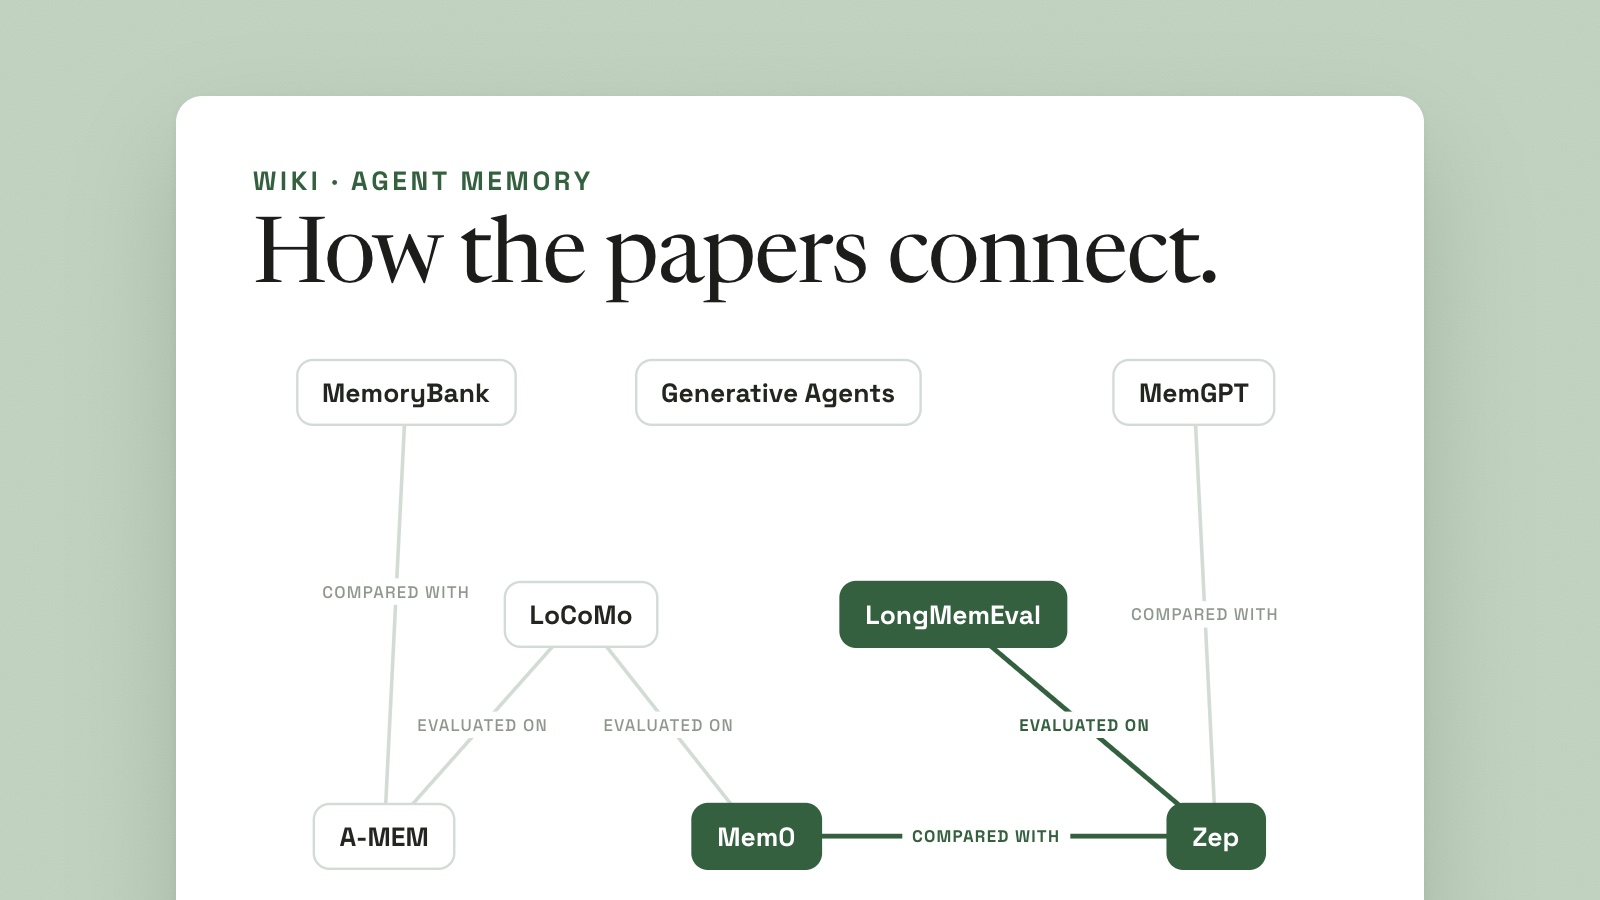
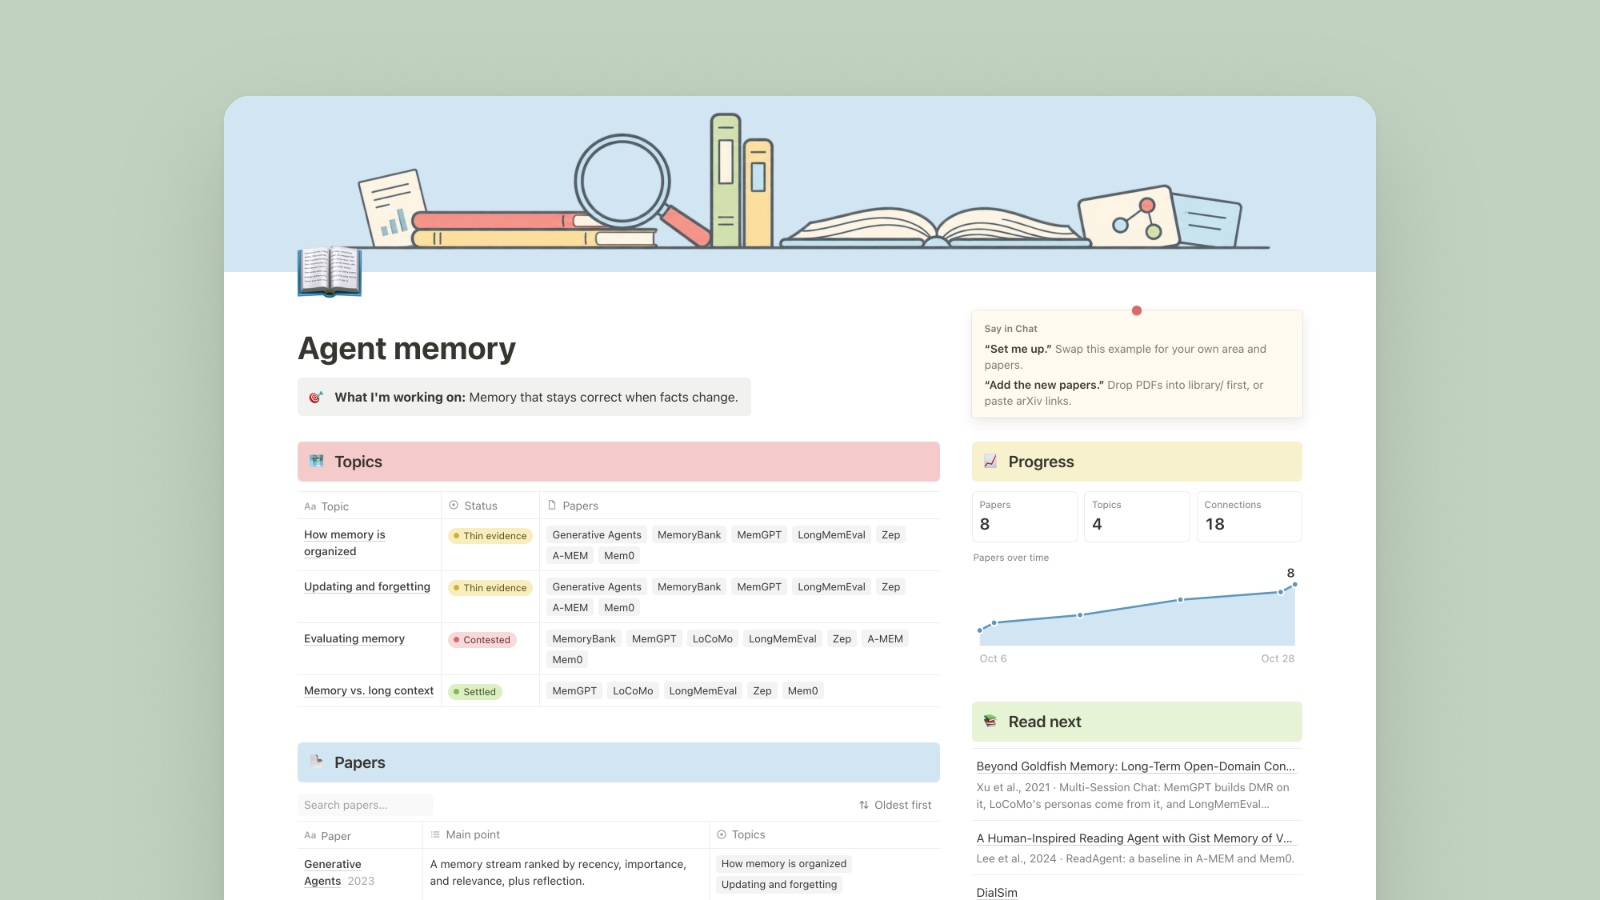
Feature LLM Wiki for Papers first with its dashboard as the cover
The template now has a dashboard, so its green cover is a real screenshot
of it, like Workout Tracker's. LLM Wiki for Papers moves to the front, with
Workout Tracker second. The covers README records each dashboard's banner
color, so the next one can pick a different one.

diff --git a/covers/llm-wiki-for-papers.html b/covers/llm-wiki-for-papers.html
@@ -4,72 +4,13 @@
 <meta charset="utf-8">
 <link rel="stylesheet" href="cover.css">
 <style>
-  .thing { width: 1040px; padding: 56px 64px 60px; }
-  .label { font-family: "Space Grotesk", sans-serif; font-weight: 700; font-size: 22px; letter-spacing: 3px; text-transform: uppercase; color: var(--deep); }
-  h1 { font-family: "Newsreader", serif; font-weight: 400; font-size: 76px; letter-spacing: -1.5px; line-height: 1.05; margin-top: 14px; }
-  .map { position: relative; height: 420px; margin-top: 44px; }
-  .map svg { position: absolute; inset: 0; width: 100%; height: 100%; overflow: visible; }
-  .map line { stroke: color-mix(in srgb, var(--deep) 22%, #fff); stroke-width: 3; }
-  .map line.on { stroke: var(--deep); stroke-width: 4; }
-  .node { position: absolute; transform: translate(-50%, -50%); padding: 12px 20px; border-radius: 14px; background: #fff; white-space: nowrap;
-    border: 2px solid color-mix(in srgb, var(--deep) 22%, #fff);
-    font-family: "Space Grotesk", sans-serif; font-weight: 700; font-size: 22px; color: #22261f; }
-  .node.on { background: var(--deep); border-color: var(--deep); color: #fff; }
-  .edge { position: absolute; transform: translate(-50%, -50%); padding: 2px 8px; background: #fff; white-space: nowrap;
-    font-family: "Space Grotesk", sans-serif; font-weight: 500; font-size: 14px; letter-spacing: 1px; text-transform: uppercase; color: #8d978c; }
-  .edge.on { color: var(--deep); font-weight: 700; }
+  /* The thing is the wiki's dashboard itself: a real screenshot at 1440 × 1080, taken at 2x. */
+  .thing { width: 960px; min-height: 0; overflow: hidden; }
+  .thing img { display: block; width: 100%; }
 </style>
 </head>
 <body class="green">
   <div class="grain"></div>
-  <div class="thing">
-    <div class="label">Wiki · Agent memory</div>
-    <h1>How the papers connect.</h1>
-    <div class="map" id="map"><svg id="lines"></svg></div>
-  </div>
-<script>
-  // Older papers on top; x and y are percentages of the map.
-  const nodes = {
-    mb:   { name: "MemoryBank", x: 14, y: 6 },
-    ga:   { name: "Generative Agents", x: 48, y: 6 },
-    mg:   { name: "MemGPT", x: 86, y: 6 },
-    lc:   { name: "LoCoMo", x: 30, y: 50 },
-    lme:  { name: "LongMemEval", x: 64, y: 50 },
-    am:   { name: "A-MEM", x: 12, y: 94 },
-    m0:   { name: "Mem0", x: 46, y: 94 },
-    zep:  { name: "Zep", x: 88, y: 94 },
-  };
-  // [from, to, type, highlighted, label position along the edge (0-1)]
-  const edges = [
-    ["am", "lc", "evaluated on", false, 0.5],
-    ["m0", "lc", "evaluated on", false, 0.5],
-    ["zep", "lme", "evaluated on", true, 0.5],
-    ["zep", "mg", "compared with", false, 0.5],
-    ["m0", "zep", "compared with", true, 0.5],
-    ["am", "mb", "compared with", false, 0.55],
-  ];
-  const map = document.getElementById("map"), svg = document.getElementById("lines");
-  const W = map.clientWidth, H = map.clientHeight;
-  const pos = id => [nodes[id].x / 100 * W, nodes[id].y / 100 * H];
-  for (const [a, b, type, on, at] of edges) {
-    const [x1, y1] = pos(a), [x2, y2] = pos(b);
-    const l = document.createElementNS("http://www.w3.org/2000/svg", "line");
-    Object.entries({ x1, y1, x2, y2 }).forEach(([k, v]) => l.setAttribute(k, v));
-    if (on) l.classList.add("on");
-    svg.appendChild(l);
-    const t = document.createElement("div");
-    t.className = "edge" + (on ? " on" : ""); t.textContent = type;
-    t.style.left = x1 + (x2 - x1) * at + "px"; t.style.top = y1 + (y2 - y1) * at + "px";
-    map.appendChild(t);
-  }
-  const lit = new Set(edges.filter(e => e[3]).flatMap(e => [e[0], e[1]]));
-  for (const [id, n] of Object.entries(nodes)) {
-    const d = document.createElement("div");
-    d.className = "node" + (lit.has(id) ? " on" : "");
-    d.textContent = n.name;
-    d.style.left = n.x + "%"; d.style.top = n.y + "%";
-    map.appendChild(d);
-  }
-</script>
+  <div class="thing"><img src="llm-wiki-for-papers.png" alt=""></div>
 </body>
 </html>

diff --git a/covers/README.md b/covers/README.md
@@ -3,7 +3,7 @@
 Every cover shares one 16:9 layout: a tone with paper grain and one thing the project makes, in that thing's own form, lifted off the tone. The forms differ in shape (a resume page, a post with a picture, a dark post on X, a digest drawn as 337 dots with 5 picked), so four covers side by side tell apart at card size. Only one line on each is large enough to read there; the rest is texture. The cover carries no project name (the app prints it beside the cover), no logo, and no chat bubbles. Use real content from the project.
 
 * `cover.css`: the shared tones (`green`, `blue`, `clay`, `violet`), grain, and the lifted `.thing`. The tones share one lightness, with hues far enough apart to tell cards apart at a glance.
-* `<id>.html`: one file per project. Set the tone with the class on `<body>`, and draw the thing in `.thing` with its own styles. When the project's thing is an HTML page, use a real screenshot of it instead, saved next to the cover as `<id>.png` (light mode, 2x, without the browser-only "Preview mode" notice).
+* `<id>.html`: one file per project. Set the tone with the class on `<body>`, and draw the thing in `.thing` with its own styles. When the project's thing is an HTML page, use a real screenshot of it instead, saved next to the cover as `<id>.png` (light mode, 2x, without the browser-only "Preview mode" notice). Every page shares the same colors (coral, yellow, green) and gets its own banner color, which sits at the top of the screenshot: different from other projects' banners and from its own tone. The Banner column records them.
 * `fonts/`: Newsreader and Space Grotesk, the same as stashbase.ai.
 
 Render at 1600 × 900 with headless Chrome, then save it as `wikis/<id>/screenshots/cover.jpg`:
@@ -13,13 +13,13 @@ Render at 1600 × 900 with headless Chrome, then save it as `wikis/<id>/screensh
 sips -s format jpeg -s formatOptions 90 cover.png --out wikis/<id>/screenshots/cover.jpg
 ```
 
-| Project | Tone and thing |
-| --- | --- |
-| resume-builder | green, resume page |
-| linkedin-ghostwriter | blue, LinkedIn post |
-| x-content-starter | clay, post on X |
-| paper-tracker-for-industry | violet, weekly digest |
-| llm-wiki-for-papers | green, map of papers and how they connect |
-| poc-deck-builder | blue, results slide with each success criterion against its target |
-| software-architect | clay, architecture doc with its earlier versions stacked behind |
-| workout-tracker | violet, screenshot of the tracker page with the first week done |
+| Project | Tone and thing | Banner |
+| --- | --- | --- |
+| resume-builder | green, resume page | — |
+| linkedin-ghostwriter | blue, LinkedIn post | — |
+| x-content-starter | clay, post on X | — |
+| paper-tracker-for-industry | violet, weekly digest | — |
+| llm-wiki-for-papers | green, screenshot of the wiki's dashboard: topics, papers, and progress | blue `#a6cbe8` |
+| poc-deck-builder | blue, results slide with each success criterion against its target | — |
+| software-architect | clay, architecture doc with its earlier versions stacked behind | — |
+| workout-tracker | violet, screenshot of the tracker page with the first week done | teal `#b4e0db` |
